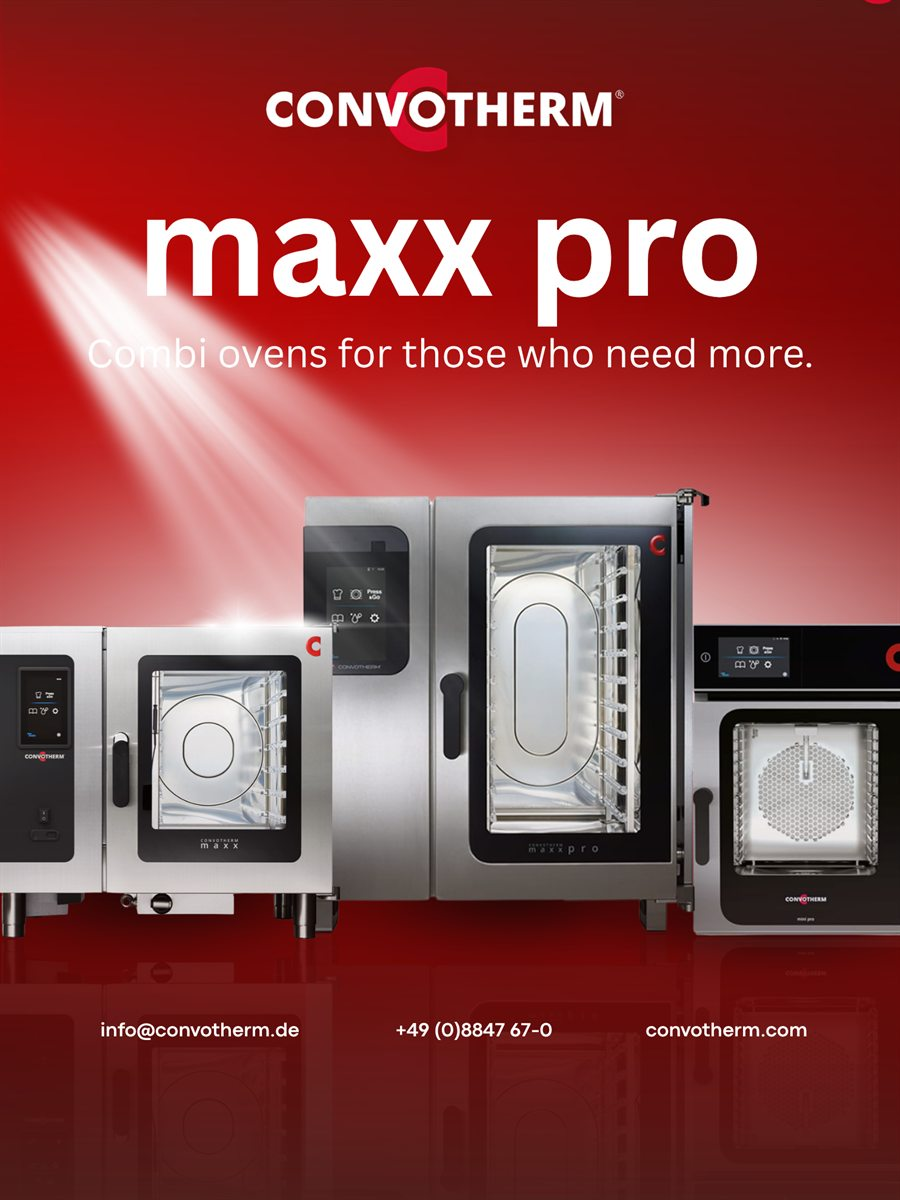
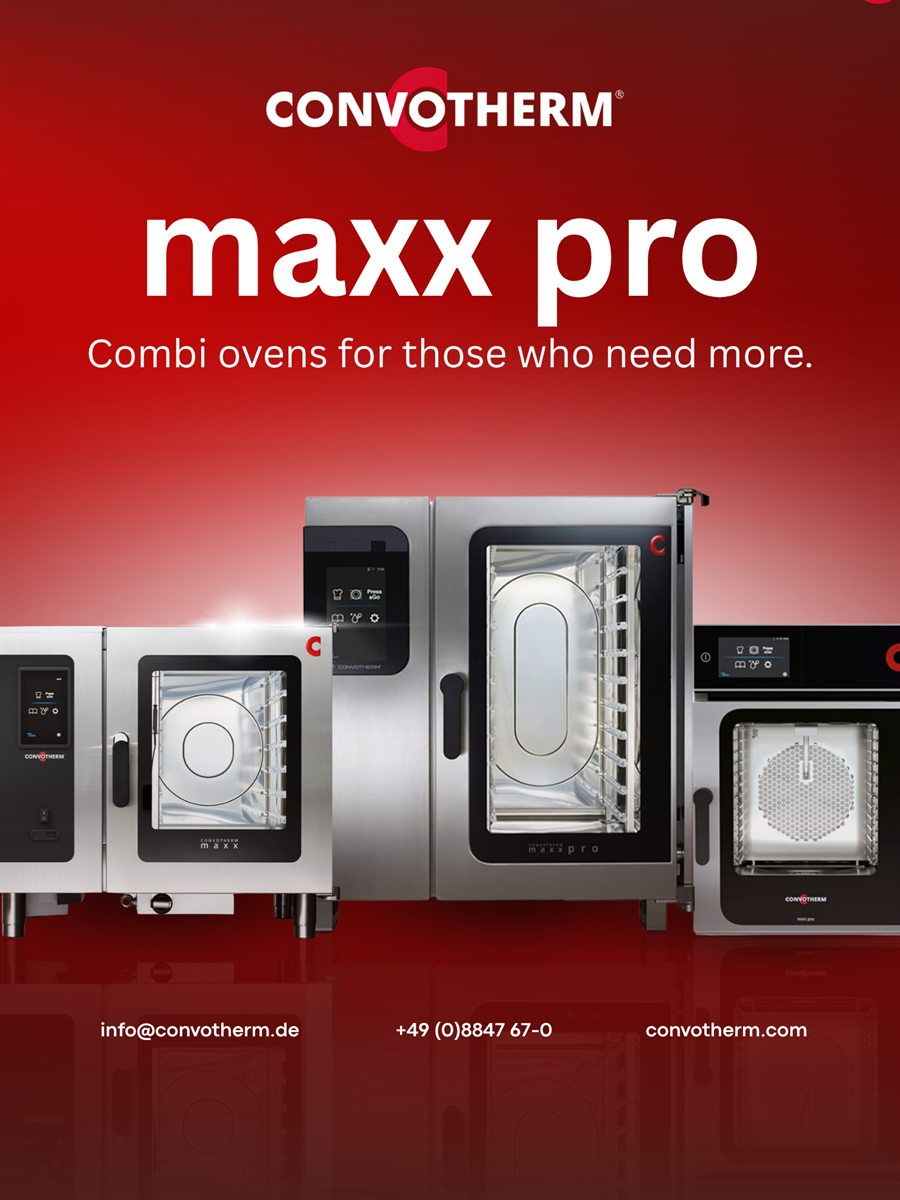
Refresh social creative 1 with the updated artwork
Re-exports the replaced 1.png (light-ray streak removed) at 900x1200
and cache-busts the reference to ?v=2 so the CDN serves the new file.

Changed region(s): [[0.0, 0.1542, 0.4667, 0.5242]]

diff --git a/index.html b/index.html
@@ -247,7 +247,7 @@ tailwind.config={theme:{extend:{colors:{coal:{'DEFAULT':'#0A0A0A','light':'#1414
 
         <div class="post-card tilt shine">
           <div class="post-head"><div class="post-ava"><img src="assets/logo/convotherm-color.svg" alt="Convotherm"></div><div class="flex-1 min-w-0"><p class="pname">Convotherm</p><p class="phandle">Sponsored</p></div><span class="post-plat">LinkedIn</span></div>
-          <div class="post-media"><img src="assets/creatives/1.jpg" alt="Convotherm maxx pro — combi ovens for those who need more" loading="lazy"></div>
+          <div class="post-media"><img src="assets/creatives/1.jpg?v=2" alt="Convotherm maxx pro — combi ovens for those who need more" loading="lazy"></div>
           <p class="post-cap">Not too much, not too little. German engineering for a surprisingly small price. <b>#maxxpro</b></p>
           <div class="post-foot"><svg width="17" height="17" fill="none" stroke="currentColor" stroke-width="1.6" viewBox="0 0 24 24"><path d="M20.8 8.6a5.5 5.5 0 00-9.8-3.4A5.5 5.5 0 003.2 8.6c0 4.3 8.3 9.9 8.8 9.9s8.8-5.6 8.8-9.9z"/></svg><svg width="17" height="17" fill="none" stroke="currentColor" stroke-width="1.6" viewBox="0 0 24 24"><path d="M21 15a2 2 0 01-2 2H7l-4 4V5a2 2 0 012-2h14a2 2 0 012 2z"/></svg><svg width="17" height="17" fill="none" stroke="currentColor" stroke-width="1.6" viewBox="0 0 24 24"><path d="M4 12v8h16v-8M16 6l-4-4-4 4M12 2v14"/></svg></div>
         </div>
